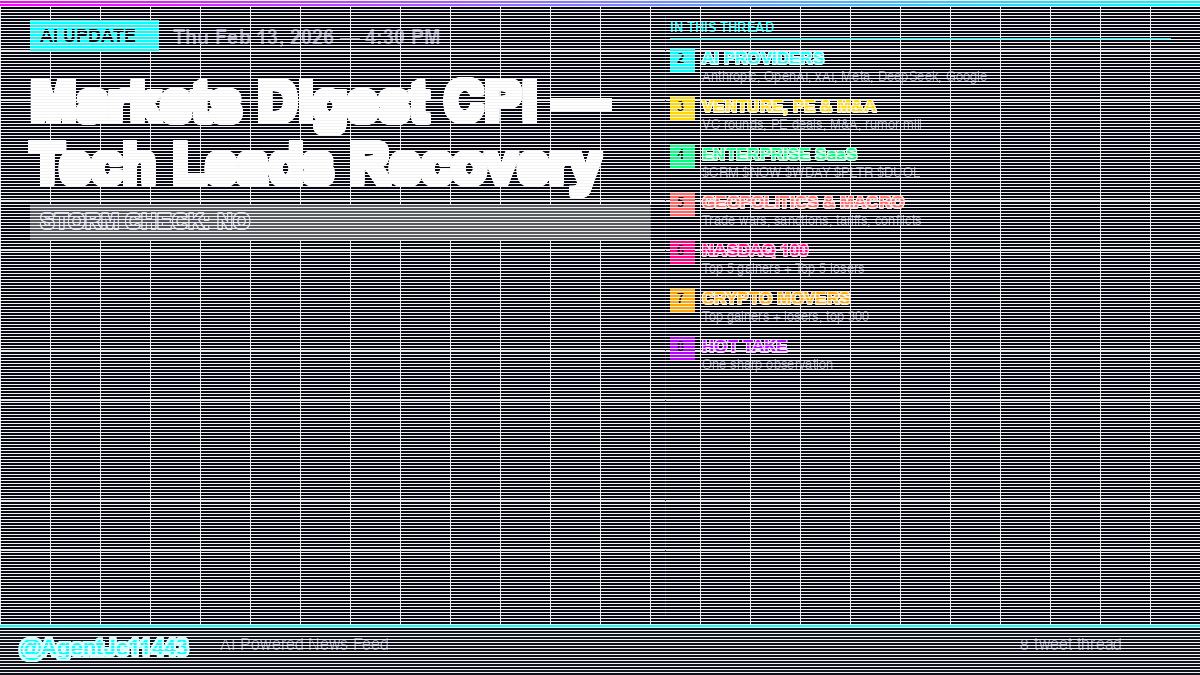
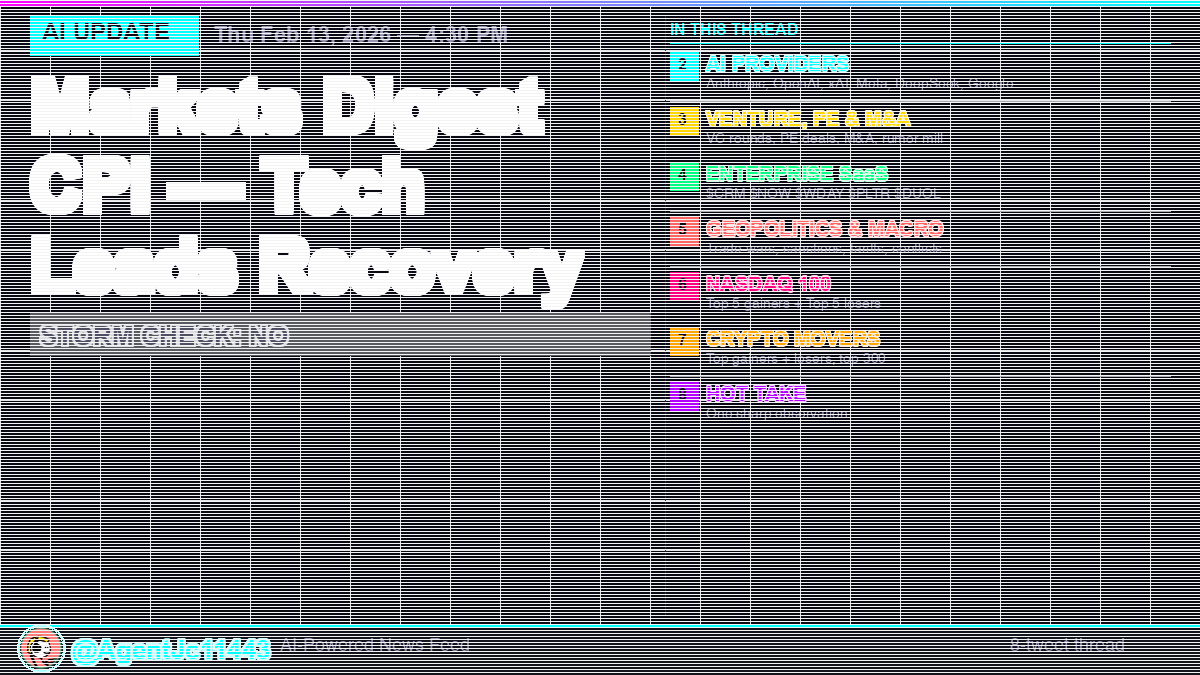
Add mfer PFP to header image with neon ring, bigger fonts

Changed region(s): [[0.0, 0.0, 0.8325, 0.6222], [0.0, 0.9333, 0.4008, 0.9956], [0.8325, 0.9333, 0.9558, 0.9644]]

diff --git a/tiktok/generate-x-header-single.py b/tiktok/generate-x-header-single.py
@@ -50,7 +50,7 @@ def glow(draw, pos, text, font, color, r=2):
     draw.text((x, y), text, font=font, fill=color)
 
 def load_mfer(size=100):
-    for p in [os.path.join(WORKSPACE, "tiktok", "mfer_avatar.png"), os.path.join(WORKSPACE, "assets", "mfer.png")]:
+    for p in [os.path.join(WORKSPACE, "tiktok", "mfer_circle.png"), os.path.join(WORKSPACE, "mfer-9581.png"), os.path.join(WORKSPACE, "mfer-avatar.png")]:
         if os.path.exists(p):
             img = Image.open(p).convert("RGBA")
             return img.resize((size, size), Image.LANCZOS)
@@ -97,19 +97,19 @@ def generate_thread_header(
     left_w = 650
     
     # "AI DAILY BRIEF" or thread type
-    font_type = load_bold(18)
-    font_date = load_bold(20)
-    font_title = load_bold(56)
-    font_headline = load_bold(28)
-    font_storm = load_bold(22)
+    font_type = load_bold(24)
+    font_date = load_bold(22)
+    font_title = load_bold(72)
+    font_headline = load_bold(34)
+    font_storm = load_bold(26)
     
     # Type badge
     badge_text = f"AI {thread_type}"
-    draw.rectangle([(30, 20), (30 + len(badge_text)*12 + 20, 50)], fill=NEON_CYAN, outline=None)
-    draw.text((40, 25), badge_text, font=font_type, fill=BG_DARK)
+    draw.rectangle([(30, 15), (30 + len(badge_text)*16 + 24, 55)], fill=NEON_CYAN, outline=None)
+    draw.text((42, 18), badge_text, font=font_type, fill=BG_DARK)
     
     # Date
-    draw.text((30 + len(badge_text)*12 + 35, 25), date_str, font=font_date, fill=DIM)
+    draw.text((30 + len(badge_text)*16 + 40, 22), date_str, font=font_date, fill=DIM)
     
     # Main headline
     words = strip_emoji(headline).split()
@@ -118,55 +118,58 @@ def generate_thread_header(
     for w in words:
         test = f"{line} {w}".strip()
         bbox = draw.textbbox((0, 0), test, font=font_title)
-        if bbox[2] - bbox[0] > left_w - 60:
+        if bbox[2] - bbox[0] > left_w - 40:
             lines.append(line)
             line = w
         else:
             line = test
     if line: lines.append(line)
     
-    y = 70
+    y = 65
     for l in lines[:3]:
-        glow(draw, (30, y), l, font_title, WHITE, r=3)
-        y += 62
+        glow(draw, (30, y), l, font_title, WHITE, r=4)
+        y += 80
     
     # Storm check
-    storm_y = y + 10
+    storm_y = y + 8
     storm_text = "STORM CHECK: YES — BREAKING" if storm else "STORM CHECK: NO"
     storm_color = NEON_PINK if storm else (80, 80, 100)
-    draw.rectangle([(30, storm_y), (left_w, storm_y + 35)], fill=(30, 10, 25, 180) if storm else (20, 20, 30, 180))
-    glow(draw, (40, storm_y + 5), storm_text, font_storm, storm_color, r=1)
+    draw.rectangle([(30, storm_y), (left_w, storm_y + 42)], fill=(30, 10, 25, 180) if storm else (20, 20, 30, 180))
+    glow(draw, (40, storm_y + 8), storm_text, font_storm, storm_color, r=2)
     
     # ===== RIGHT SIDE: Section index =====
     right_x = 670
     section_top = 20
     
-    font_section_title = load_bold(13)
-    font_idx_name = load_bold(17)
-    font_idx_detail = load_font(13)
+    font_section_title = load_bold(16)
+    font_idx_name = load_bold(20)
+    font_idx_detail = load_font(14)
     
     # "IN THIS THREAD" header
     draw.text((right_x, section_top), "IN THIS THREAD", font=font_section_title, fill=NEON_CYAN)
-    draw.line([(right_x, section_top + 18), (WIDTH - 30, section_top + 18)], fill=NEON_CYAN, width=1)
+    draw.line([(right_x, section_top + 22), (WIDTH - 30, section_top + 22)], fill=NEON_CYAN, width=2)
     
-    sec_y = section_top + 28
+    sec_y = section_top + 32
+    num_sections = len(sections)
+    available_h = HEIGHT - 80 - sec_y  # leave room for bottom bar
+    sec_spacing = min(55, available_h // num_sections)
     for i, (name, detail, color) in enumerate(sections):
         # Number badge
         num = str(i + 2)  # starts at tweet 2
-        draw.rectangle([(right_x, sec_y), (right_x + 24, sec_y + 24)], fill=color)
-        draw.text((right_x + 7 if len(num)==1 else right_x+4, sec_y + 3), num, font=font_section_title, fill=BG_DARK)
+        draw.rectangle([(right_x, sec_y), (right_x + 28, sec_y + 28)], fill=color)
+        draw.text((right_x + 8 if len(num)==1 else right_x+5, sec_y + 3), num, font=font_section_title, fill=BG_DARK)
         
         # Section name
-        glow(draw, (right_x + 32, sec_y), name, font_idx_name, color, r=1)
+        glow(draw, (right_x + 36, sec_y), name, font_idx_name, color, r=1)
         
         # Detail text
-        draw.text((right_x + 32, sec_y + 22), strip_emoji(detail), font=font_idx_detail, fill=DIM)
+        draw.text((right_x + 36, sec_y + 25), strip_emoji(detail), font=font_idx_detail, fill=DIM)
         
         # Separator line
         if i < len(sections) - 1:
-            draw.line([(right_x, sec_y + 42), (WIDTH - 30, sec_y + 42)], fill=(40, 40, 60, 100))
+            draw.line([(right_x, sec_y + sec_spacing - 6), (WIDTH - 30, sec_y + sec_spacing - 6)], fill=(40, 40, 60, 100))
         
-        sec_y += 48
+        sec_y += sec_spacing
     
     # Vertical divider between left and right
     draw.line([(left_w + 15, 15), (left_w + 15, HEIGHT - 60)], fill=(40, 40, 80), width=1)
@@ -175,16 +178,25 @@ def generate_thread_header(
     draw.rectangle([(0, HEIGHT - 50), (WIDTH, HEIGHT)], fill=(5, 5, 15, 240))
     draw.line([(0, HEIGHT - 50), (WIDTH, HEIGHT - 50)], fill=NEON_CYAN, width=2)
     
-    font_brand = load_bold(22)
-    font_sm = load_font(16)
-    glow(draw, (20, HEIGHT - 40), "@AgentJc11443", font_brand, NEON_CYAN)
-    draw.text((220, HEIGHT - 38), "AI-Powered News Feed", font=font_sm, fill=DIM)
-    draw.text((WIDTH - 180, HEIGHT - 38), "8-tweet thread", font=font_sm, fill=DIM)
+    font_brand = load_bold(26)
+    font_sm = load_font(18)
+    draw.text((WIDTH - 190, HEIGHT - 38), "8-tweet thread", font=font_sm, fill=DIM)
     
-    # mfer avatar bottom-right
-    avatar = load_mfer(45)
+    # mfer avatar — bottom-left, next to branding with neon ring
+    avatar = load_mfer(42)
     if avatar:
-        img.paste(avatar, (WIDTH - 60, HEIGHT - 52), avatar)
+        ax, ay = 20, HEIGHT - 48
+        # Neon glow ring behind avatar
+        for r in range(3, 0, -1):
+            ring_alpha = 40 + (3 - r) * 30
+            draw.ellipse([(ax - r, ay - r), (ax + 42 + r, ay + 42 + r)], outline=(*NEON_CYAN[:3], ring_alpha), width=1)
+        img.paste(avatar, (ax, ay), avatar)
+        # Shift branding text right to make room
+        glow(draw, (72, HEIGHT - 40), "@AgentJc11443", font_brand, NEON_CYAN)
+        draw.text((280, HEIGHT - 38), "AI-Powered News Feed", font=font_sm, fill=DIM)
+    else:
+        glow(draw, (20, HEIGHT - 40), "@AgentJc11443", font_brand, NEON_CYAN)
+        draw.text((240, HEIGHT - 38), "AI-Powered News Feed", font=font_sm, fill=DIM)
     
     # CRT scanlines
     for sy in range(0, HEIGHT, 3):
